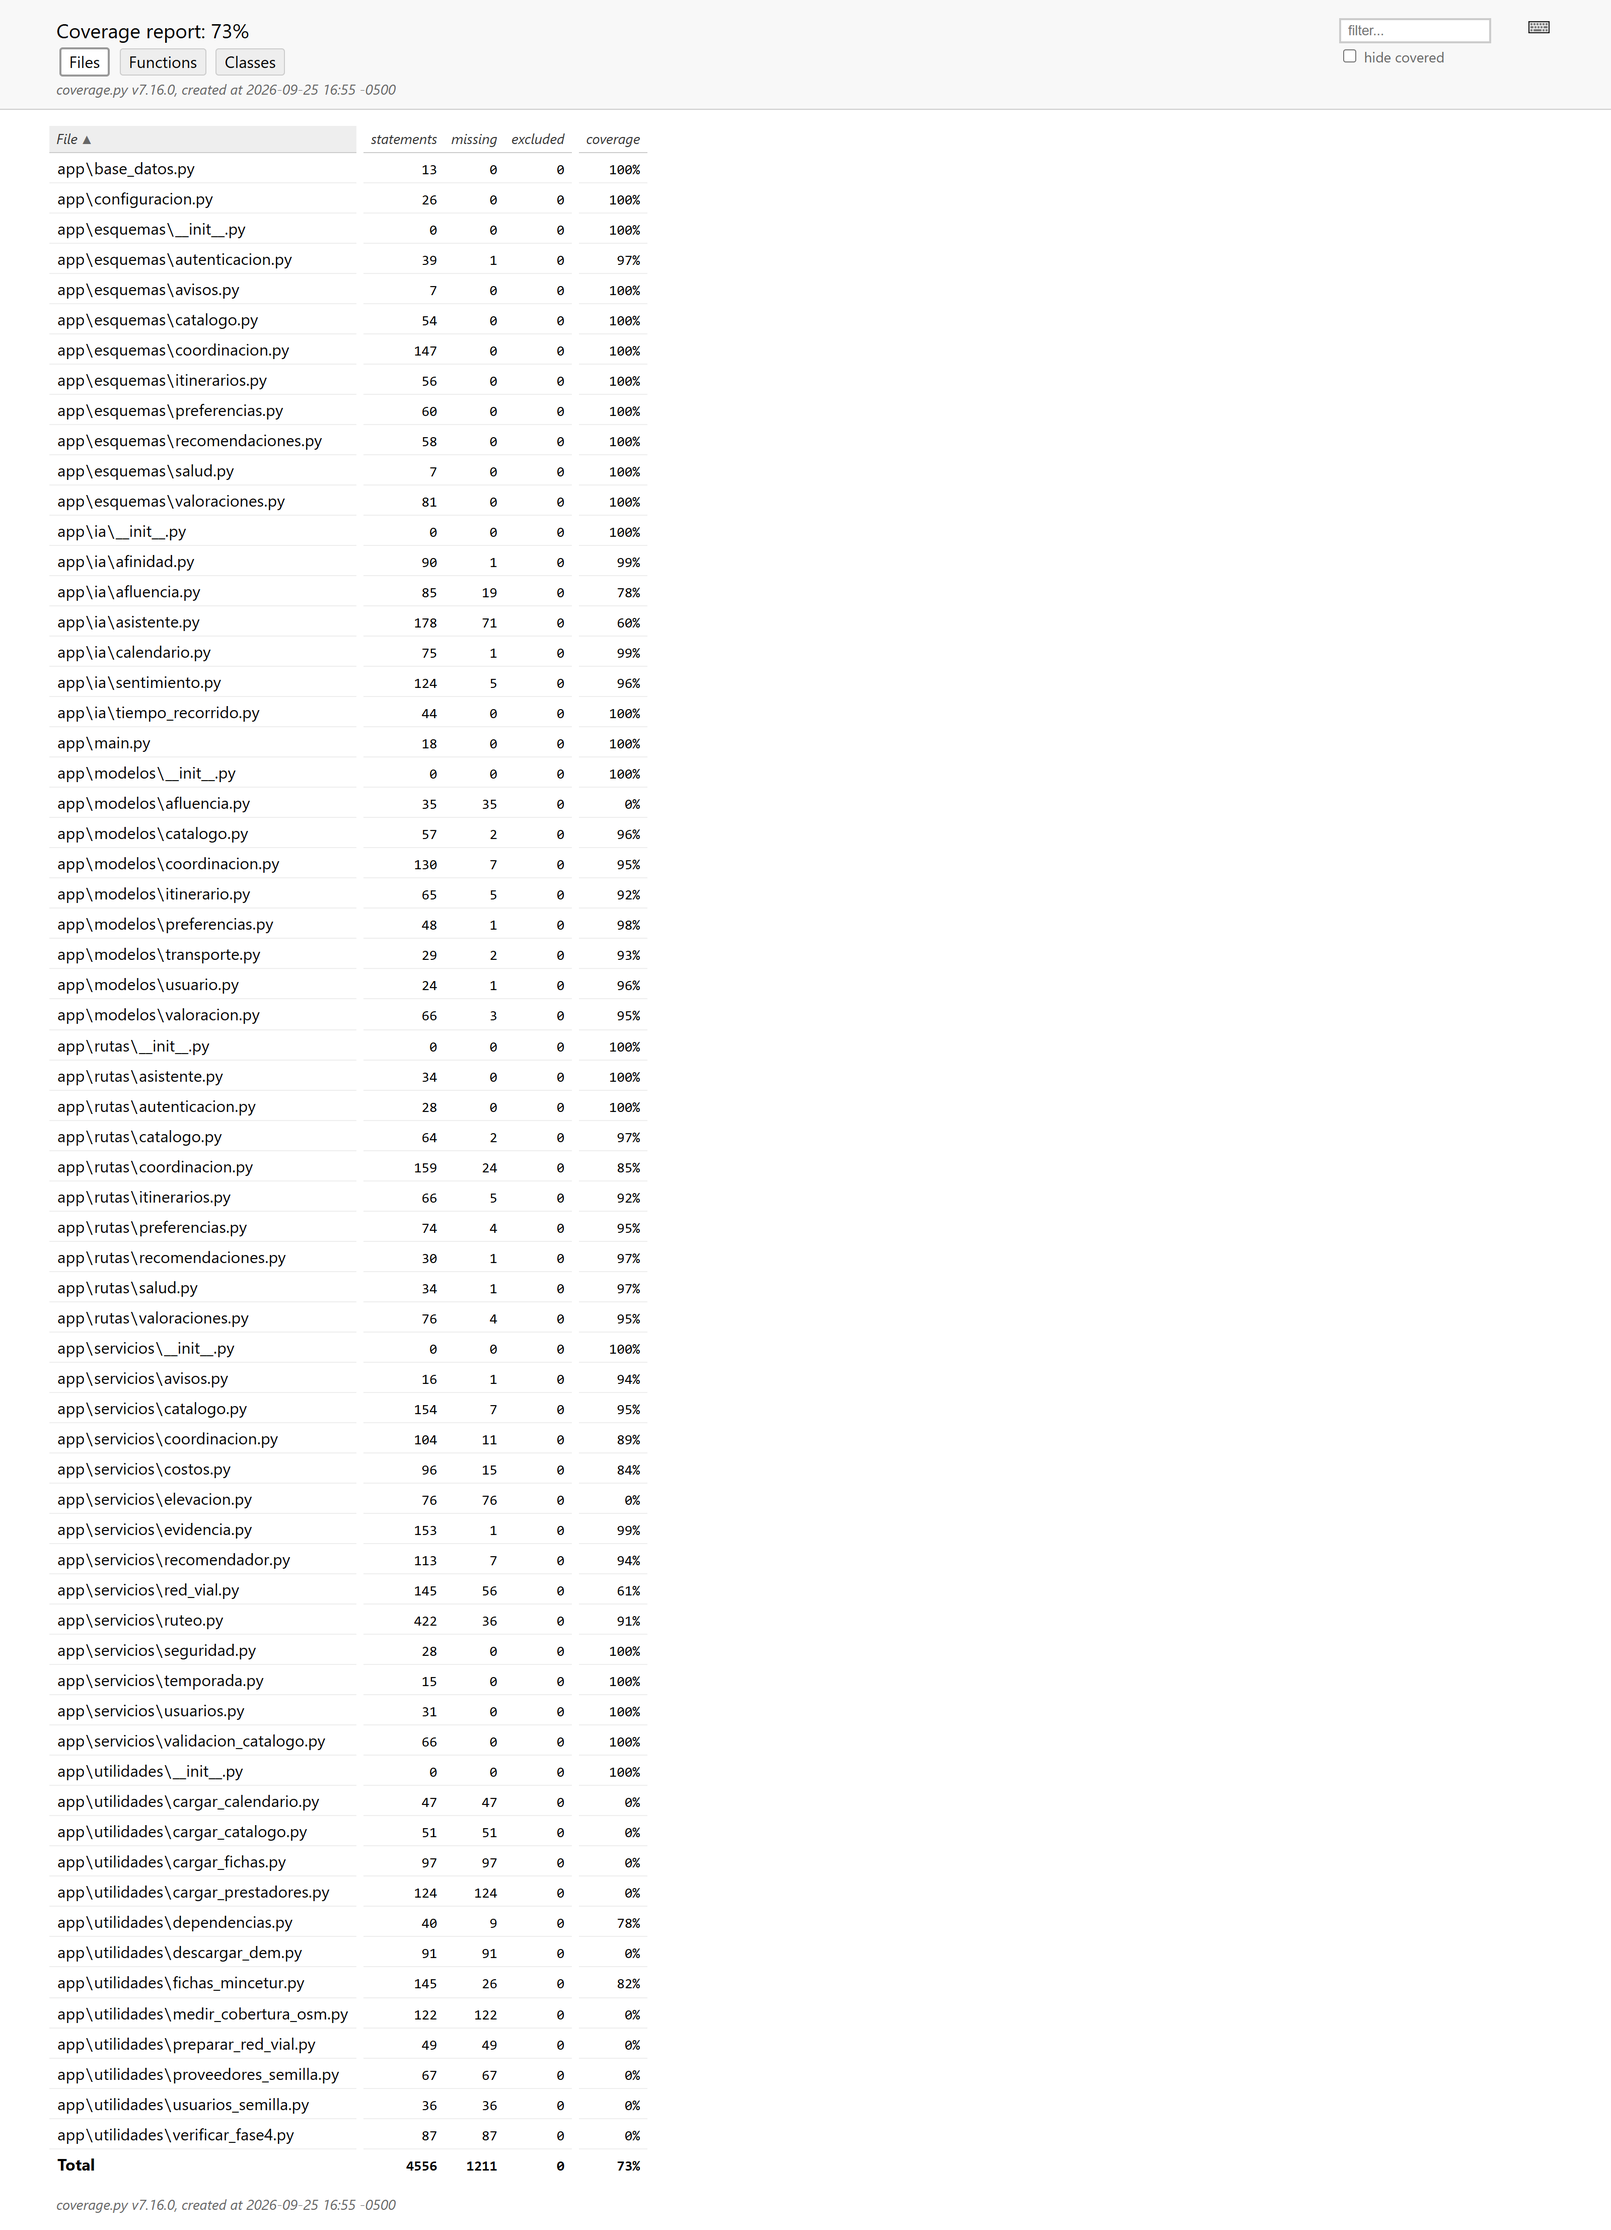
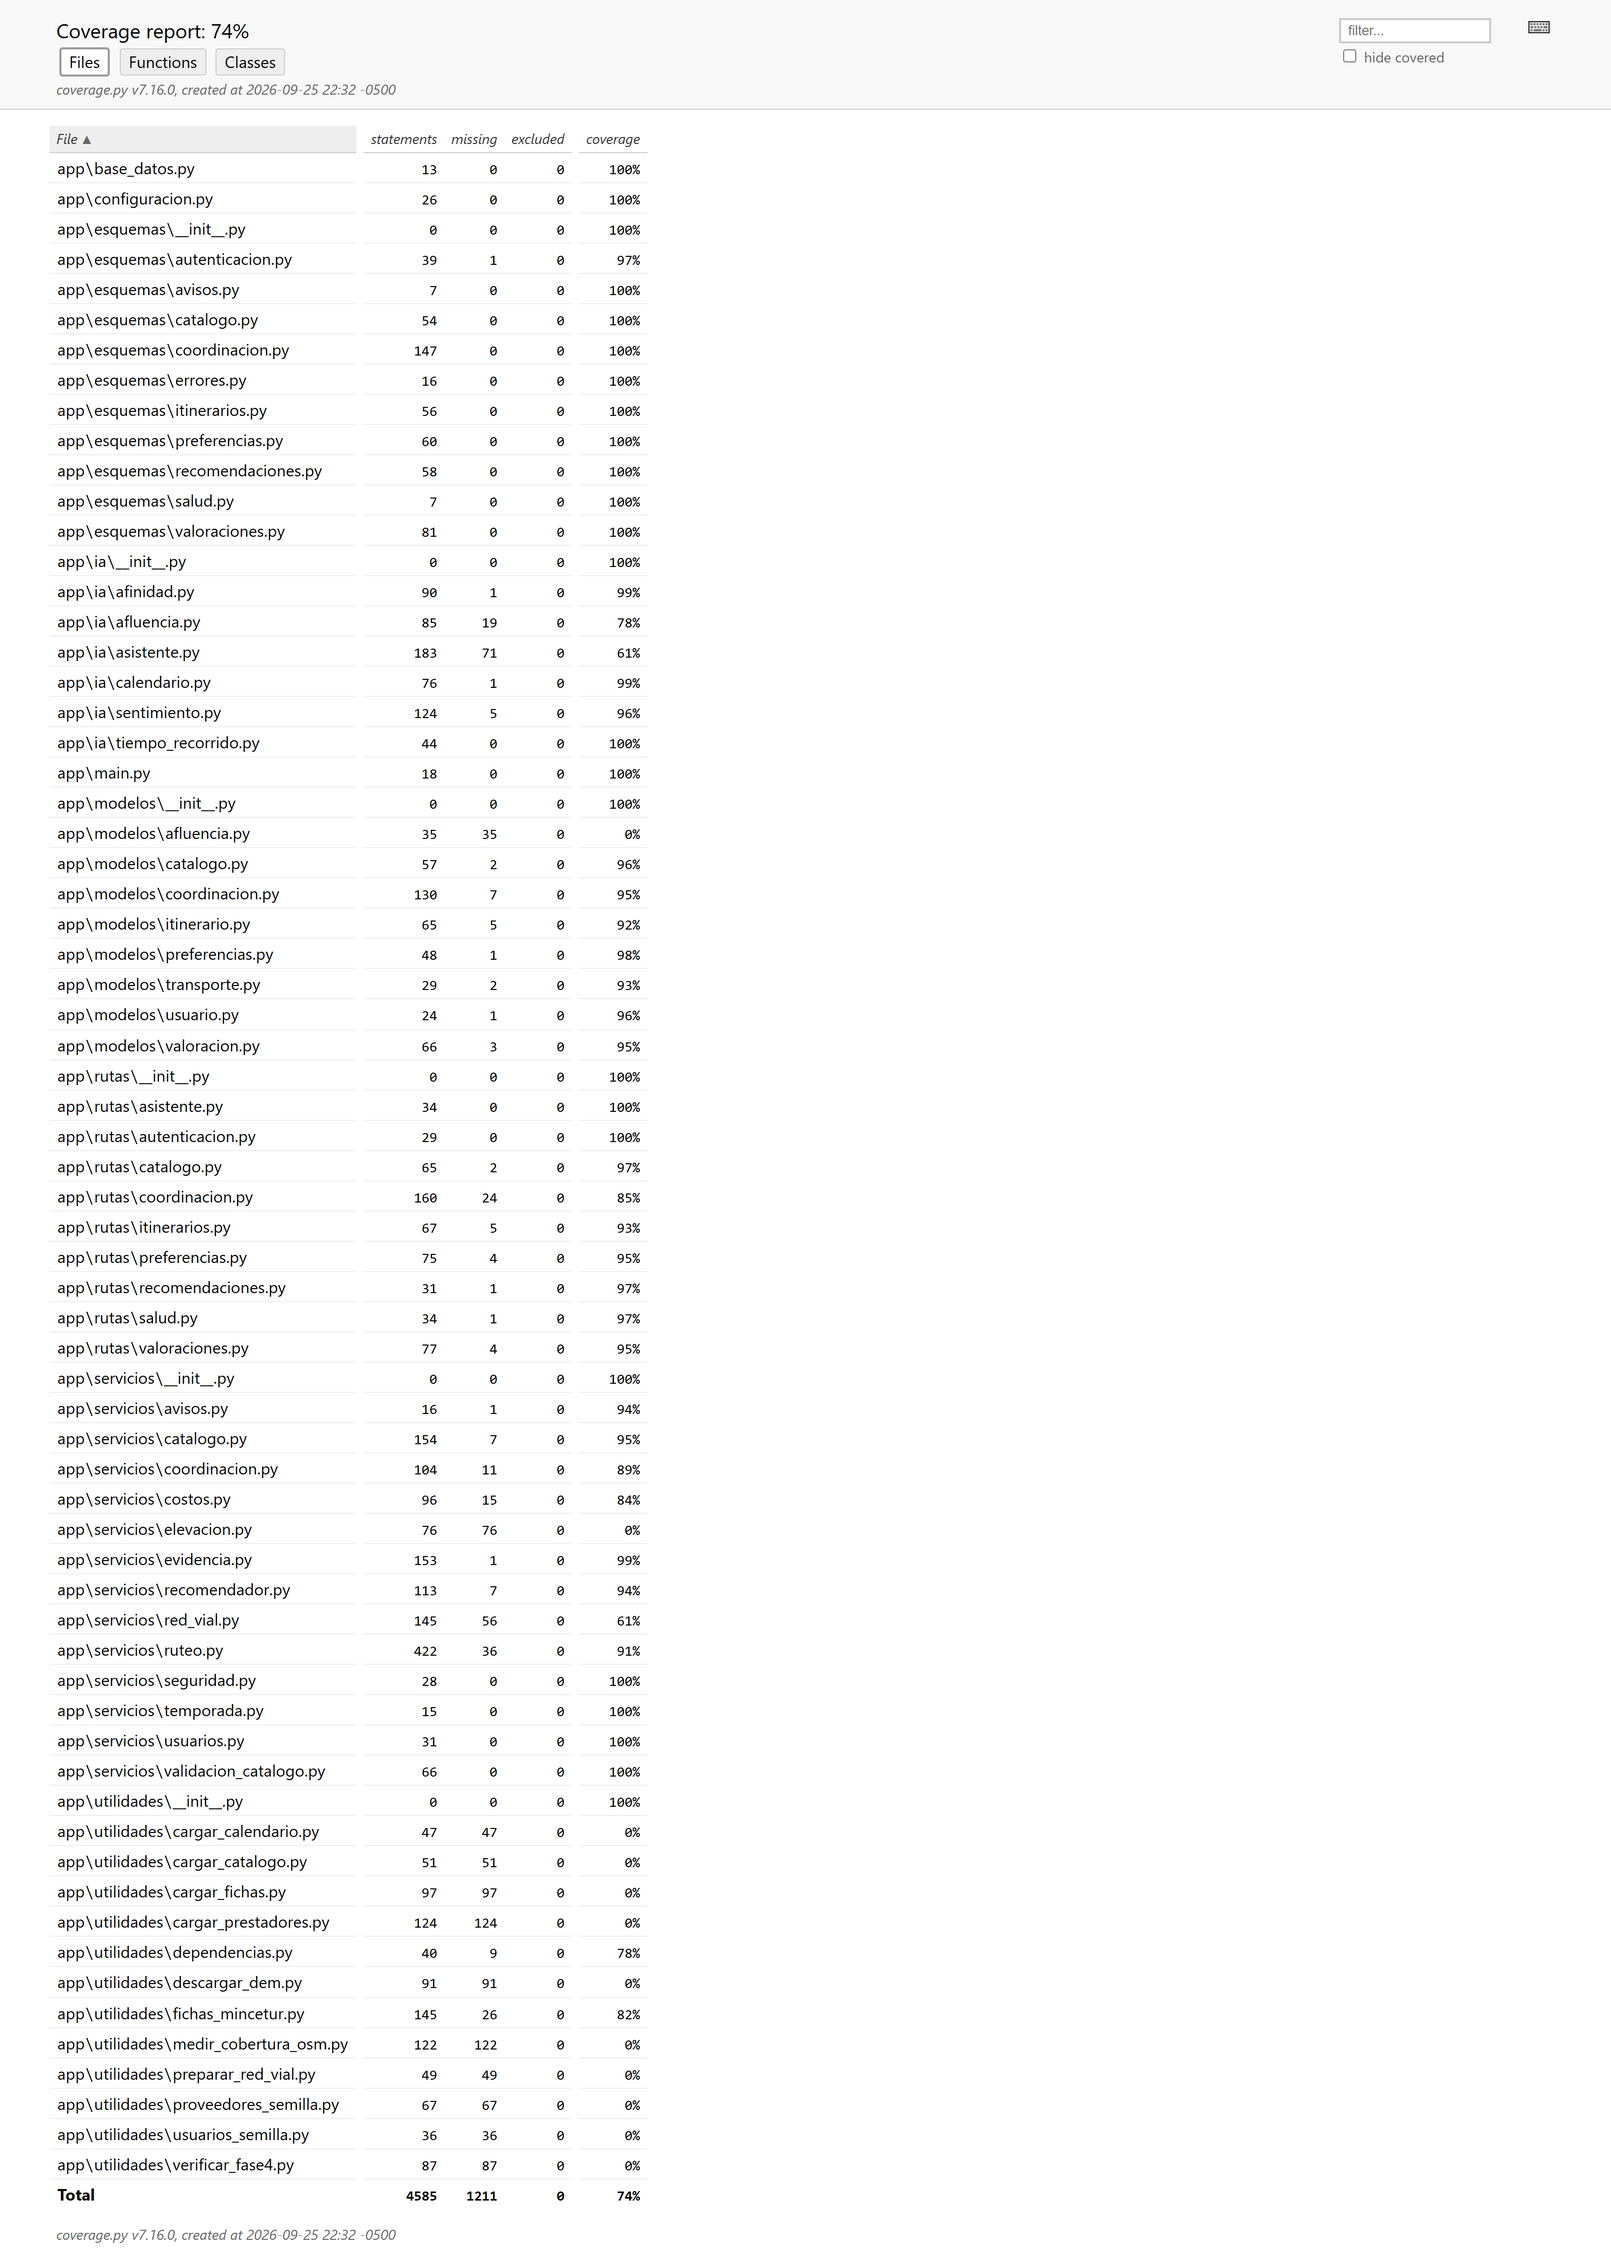
chore(capturas): separa la evidencia externa de la aplicacion y rehace la 12
La captura de GitHub Actions vivia en el guion que recorre la aplicacion, y
por tanto exigia backend y frontend levantados para fotografiar una pagina de
github.com. Se mueve al guion de evidencia externa, junto al informe de
cobertura y el tablero de SonarQube.

Tambien se le anade una guarda: no guarda la captura hasta comprobar que la
pagina dice Success. Una foto de un flujo en rojo presentada como evidencia de
que pasa seria lo contrario de una evidencia.

La 12 se rehace con la ejecucion 36214902324: verde al primer intento en
2 min 44 s, y los dos avisos de Node.js 20 obsoleto ya no salen. Quedan dos
notices informativos de GitHub sobre la migracion de ubuntu-latest a Ubuntu 26
en octubre de 2026, que no son de obsolescencia ni dependen del proyecto.

diff --git a/docs/capturas/00-INDICE.md b/docs/capturas/00-INDICE.md
@@ -12,6 +12,11 @@ Se regeneran con:
 cd frontend && node capturar-pantallas.mjs
 ```
 
+El primero captura **la aplicación** (necesita backend, frontend y PostGIS
+levantados). El segundo captura la **evidencia externa** —el informe de
+cobertura, el tablero de SonarQube y la ejecución de la integración continua—,
+y para eso no hace falta levantar nada del proyecto.
+
 ```bash
 cd frontend && SONAR_CONTRASENA=la_del_contenedor node capturar-cobertura.mjs
 ```
@@ -39,8 +44,8 @@ guion**: es un contenedor local y efímero, pero la regla 1.9 del proyecto
 | `10_api_docs.png` | Swagger UI en `/docs` con las 43 operaciones | 3200×13666 |
 | `11_cobertura_pytest.png` | Informe HTML de `coverage.py` con el **73 %** *(ver la nota de abajo)* | 3200×4428 |
 | `11_pytest_consola.txt` | La **salida literal** de pytest, en texto | — |
-| `12_github_actions.png` | La ejecución de integración continua **en verde**, 3m 3s | 3200×2000 |
-| `13_sonarqube.png` | El tablero de SonarQube tras el análisis | 3200×2000 |
+| `12_github_actions.png` | La ejecución de integración continua **en verde**, 2m 44s, **sin avisos de obsolescencia** | 3200×2000 |
+| `13_sonarqube.png` | El tablero de SonarQube con el **Quality Gate en verde** sobre el código total | 3200×2000 |
 
 ---
 
